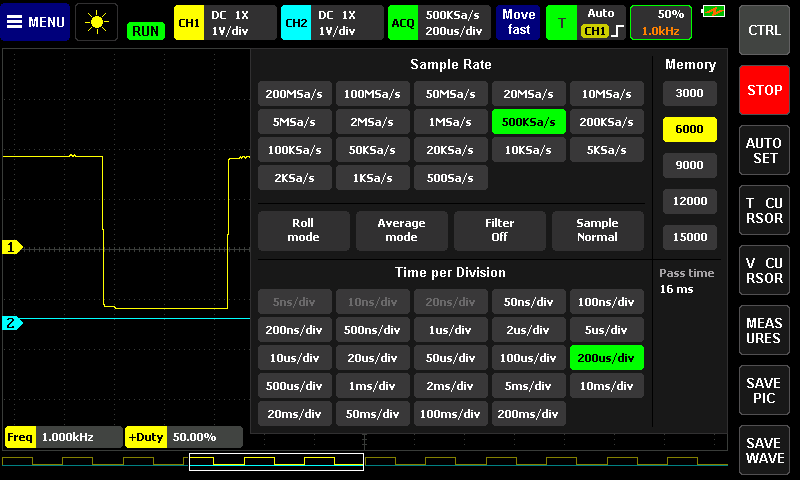
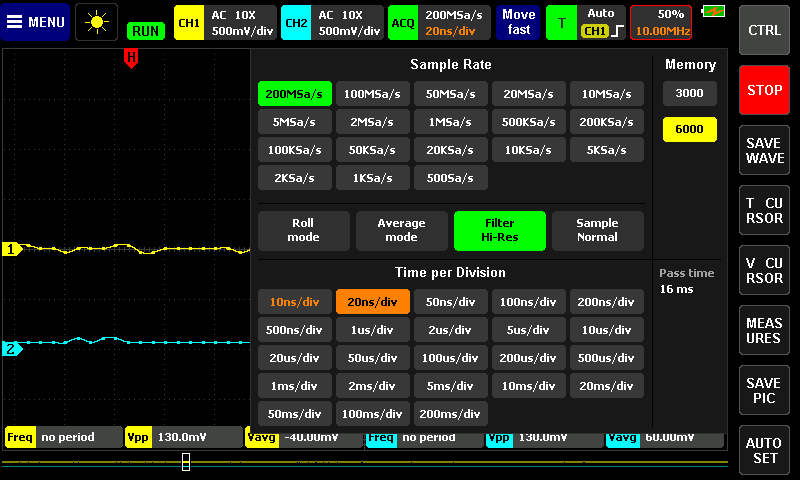
docs: screenshots of the interpolated trace and the ACQ menu, in the screens guide

diff --git a/docs/guide/screens.md b/docs/guide/screens.md
@@ -106,12 +106,19 @@ with Filter Off reads as its alias, on the trace and on the cards: nothing on th
 
 **Time/div and sample rate.** While the scope is running, the time/div picks the sample rate. Each zoom step takes
 the fastest rate whose record covers the ten divisions with at least ten samples per division. Zooming in ends at
-10 ns/div at 200 MSa/s. At 20 and 10 ns/div a division holds only four or two samples, so the scope draws the curve
-between them with sin(x)/x interpolation, as bench scopes do, and marks each real sample with a dot; the time/div is
-orange in the ACQ menu and in the top bar while the trace is interpolated. AUTO SET stops at 50 ns/div. Zooming out ends at 200 ms/div, at the border of roll mode. A rate you pick by hand in the ACQ
-menu holds until the next zoom step. When a rate makes the time/div impossible, the time/div snaps to the nearest one
+10 ns/div at 200 MSa/s. Zooming out ends at 200 ms/div, at the border of roll mode. A rate you pick by hand in the
+ACQ menu holds until the next zoom step. When a rate makes the time/div impossible, the time/div snaps to the nearest one
 that works, and "Time/div set to ... for this rate" shows for a few seconds. While stopped, the record on screen keeps
 its rate: the zoom goes only as far as that record allows, then says "Stopped: press RUN to zoom further".
+
+**20 and 10 ns/div.** At 200 MSa/s a division of these two holds only four or two samples. The scope draws the curve
+between the samples with sin(x)/x interpolation, as bench scopes do, and marks each real sample with a dot, so you
+can tell what was measured from what was computed. The time/div is orange in the ACQ menu and in the top bar while
+the trace is interpolated. AUTO SET stops at 50 ns/div; the two faster ones are yours to choose.
+
+![A 10 MHz square wave at 10 ns/div: the interpolated curve with a dot on every sample](screenshot:interpolated)
+
+![The ACQ menu at 20 ns/div: the interpolated time bases in orange](screenshot:acq-menu)
 
 **Roll mode** (ACQ > Roll, the time bases 100 ms/div to 50 s/div). The trace scrolls: the newest point enters at the
 right edge and older points move left, one screen column per point, both channels at once and without pause. Each
